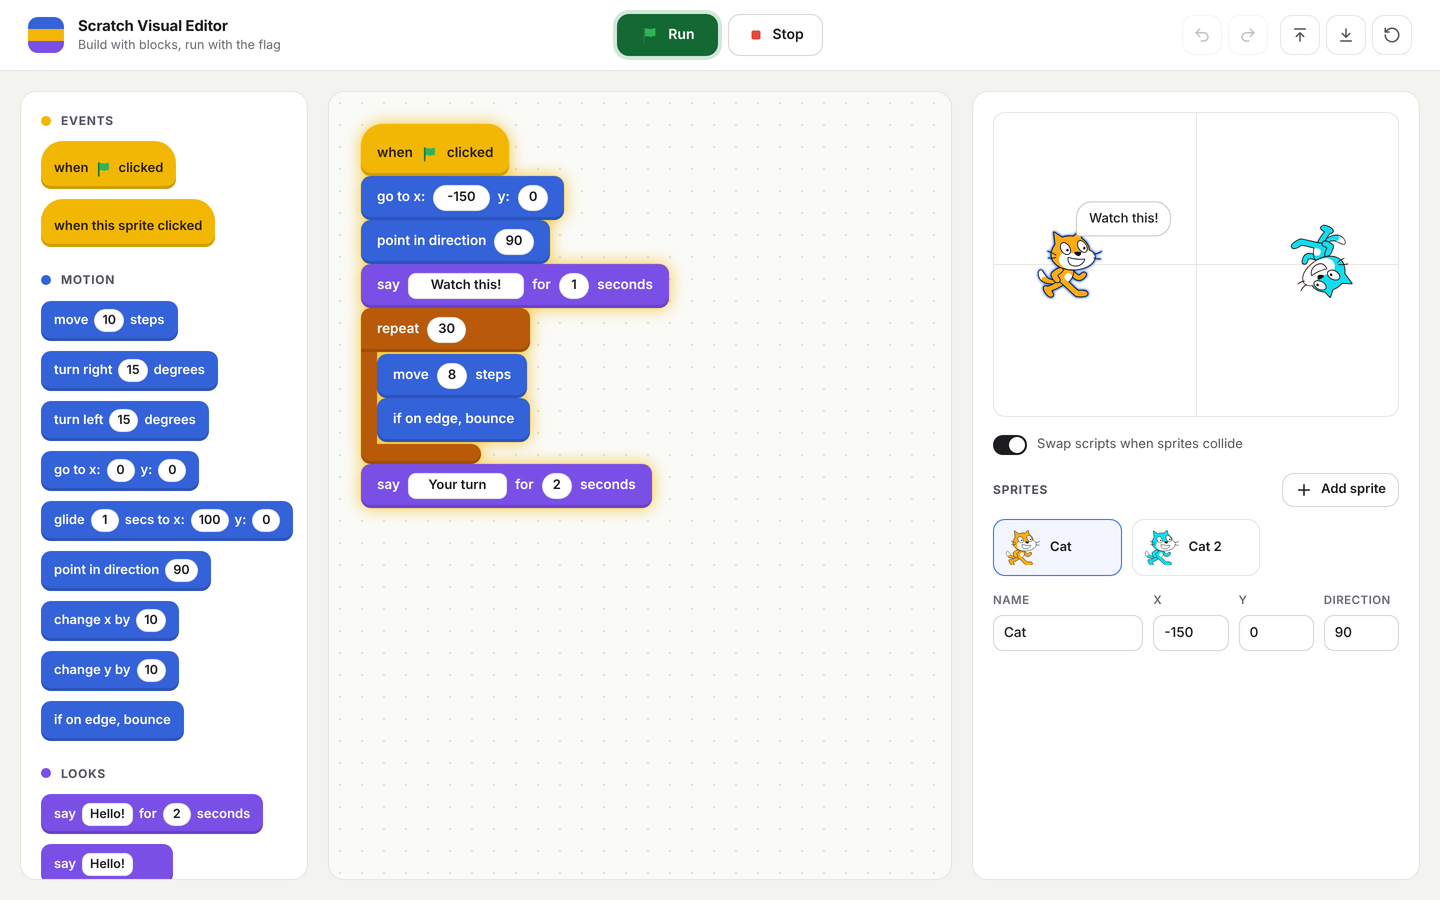
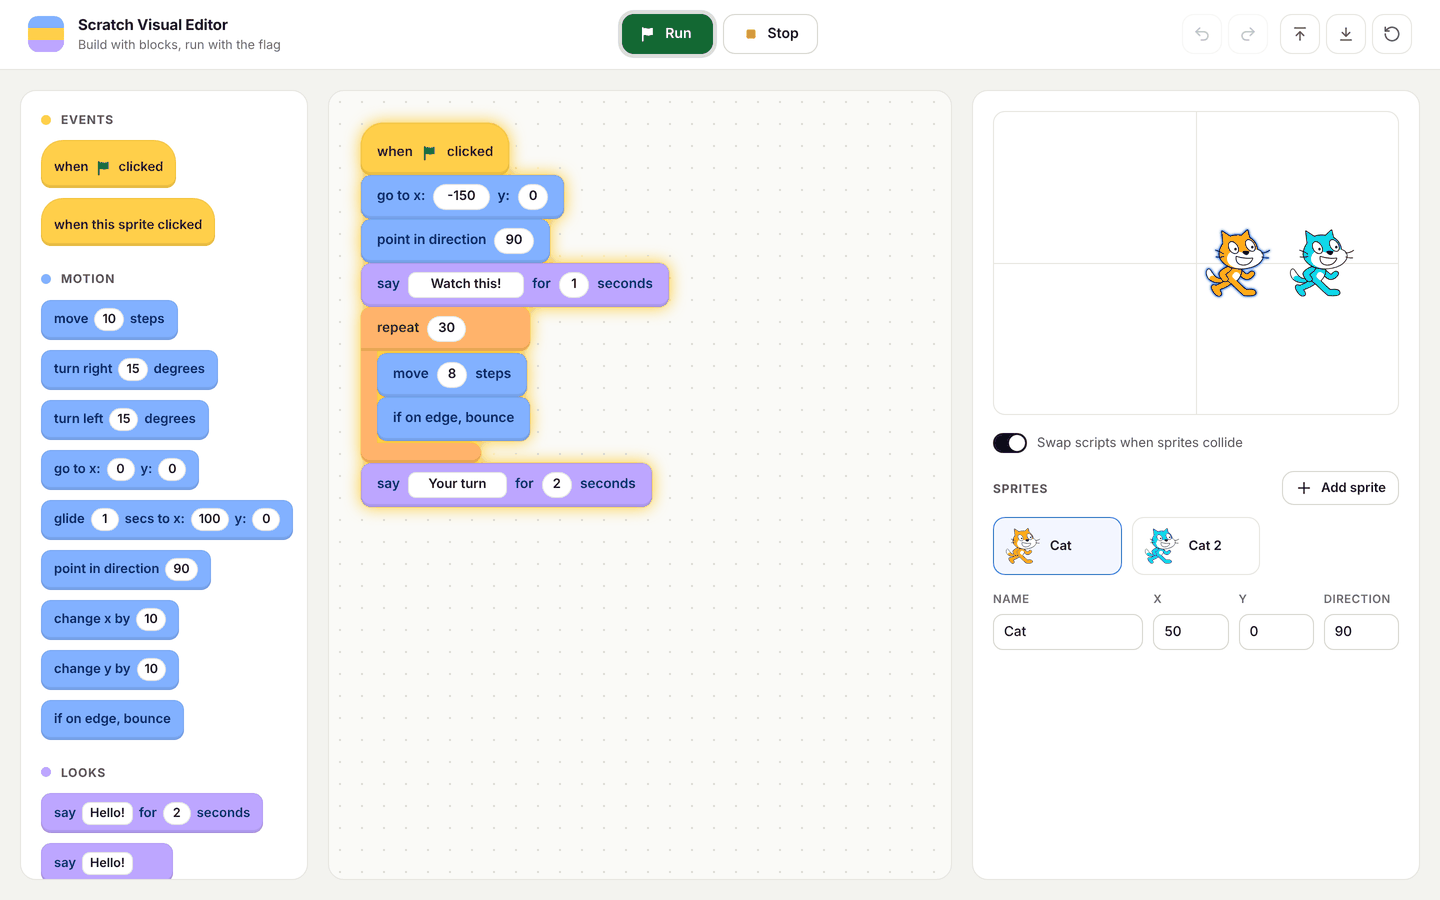
fixing colors

diff --git a/src/styles.css b/src/styles.css
@@ -36,7 +36,7 @@ body.is-dragging, body.is-dragging * { cursor: grabbing !important; user-select:
 .brand { display: flex; align-items: center; gap: 14px; }
 .brand-mark {
   width: 36px; height: 36px; border-radius: 10px; flex: none;
-  background: linear-gradient(180deg, #3462d8 0 33%, #f2b705 33% 66%, #7a4fe6 66%);
+  background: linear-gradient(180deg, #82b1ff 0 33%, #ffcf4a 33% 66%, #bda6ff 66%);
 }
 .brand h1 { margin: 0; font-size: 15px; font-weight: 700; letter-spacing: -0.01em; }
 .brand p { margin: 1px 0 0; font-size: 12.5px; color: var(--muted); }
@@ -92,21 +92,25 @@ body.is-dragging, body.is-dragging * { cursor: grabbing !important; user-select:
 /* ---------- blocks ---------- */
 .block {
   position: relative; width: max-content; min-width: 132px;
-  background: var(--block); color: #fff; border-radius: 10px;
-  box-shadow: inset 0 -3px 0 rgb(0 0 0 / .14);
+  background: var(--block); color: var(--block-ink, var(--ink)); border-radius: 10px;
+  box-shadow: inset 0 -3px 0 rgb(0 0 0 / .08), inset 0 0 0 1px rgb(0 0 0 / .05);
   cursor: grab; user-select: none; touch-action: none;
 }
 .block-row { display: flex; align-items: center; gap: 8px; min-height: 44px; padding: 6px 16px; font-size: 13.5px; font-weight: 600; white-space: nowrap; }
 .block-hat { border-radius: 22px 22px 10px 10px; }
 .block-hat .block-row { min-height: 52px; padding-top: 14px; }
 .block:focus-visible { outline: 3px solid var(--focus); outline-offset: 2px; z-index: 1; }
-.cat-events .block-row, .cat-events { color: #2d2100; }
-.cat-events .arg { color: var(--ink); }
+/* Light, saturated fills with dark text of the same hue: readable (AA) and friendlier than white-on-dark. */
+.cat-events { --block-ink: #3d2b00; }
+.cat-motion { --block-ink: #0d2a66; }
+.cat-looks { --block-ink: #2b1569; }
+.cat-control { --block-ink: #4a2300; }
+.block .arg { color: var(--ink); }
 /* C-blocks: only the head, the left arm and the foot are coloured; the mouth shows the canvas. */
 .block-c, .block-cap-c { background: none; box-shadow: none; }
-.block-c > .block-row, .block-cap-c > .block-row { background: var(--block); border-radius: 10px 10px 10px 0; box-shadow: inset 0 -3px 0 rgb(0 0 0 / .14); }
+.block-c > .block-row, .block-cap-c > .block-row { background: var(--block); border-radius: 10px 10px 10px 0; box-shadow: inset 0 -3px 0 rgb(0 0 0 / .08); }
 .c-mouth { border-left: 16px solid var(--block); padding: 2px 0; min-width: 120px; }
-.c-foot { width: 120px; height: 20px; background: var(--block); border-radius: 0 10px 10px 10px; box-shadow: inset 0 -3px 0 rgb(0 0 0 / .14); }
+.c-foot { width: 120px; height: 20px; background: var(--block); border-radius: 0 10px 10px 10px; box-shadow: inset 0 -3px 0 rgb(0 0 0 / .08); }
 .c-empty { height: 28px; }
 .stack { display: flex; flex-direction: column; align-items: flex-start; }
 .slot { position: relative; height: 0; align-self: stretch; }
@@ -132,7 +136,7 @@ body.is-dragging, body.is-dragging * { cursor: grabbing !important; user-select:
 }
 .canvas-content { position: relative; min-width: 1400px; min-height: 1100px; }
 .script { position: absolute; transition: filter .2s; }
-.script.is-running { filter: drop-shadow(0 0 0.5px #f2b705) drop-shadow(0 0 8px rgb(242 183 5 / .75)); }
+.script.is-running { filter: drop-shadow(0 0 0.5px #f0b400) drop-shadow(0 0 8px rgb(255 191 0 / .8)); }
 .canvas-empty {
   position: absolute; top: 120px; left: 50%; transform: translateX(-50%);
   max-width: 360px; text-align: center; color: var(--muted); line-height: 1.55;

diff --git a/src/model/blocks.ts b/src/model/blocks.ts
@@ -23,10 +23,10 @@ export interface BlockSpec {
 }
 
 export const CATEGORIES: { id: Category; label: string; color: string }[] = [
-  { id: 'events', label: 'Events', color: '#f2b705' },
-  { id: 'motion', label: 'Motion', color: '#3462d8' },
-  { id: 'looks', label: 'Looks', color: '#7a4fe6' },
-  { id: 'control', label: 'Control', color: '#b85a0a' },
+  { id: 'events', label: 'Events', color: '#ffcf4a' },
+  { id: 'motion', label: 'Motion', color: '#82b1ff' },
+  { id: 'looks', label: 'Looks', color: '#bda6ff' },
+  { id: 'control', label: 'Control', color: '#ffb36b' },
 ];
 
 const n = (name: string, value: number, label = name, min?: number, max?: number): ArgSpec =>

diff --git a/README.md b/README.md
@@ -4,6 +4,8 @@
 
 A Scratch-style visual programming editor in React and TypeScript. Drag blocks into scripts, press the green flag, and watch sprites move, glide, talk and bounce on the stage. Every edit can be undone, and the whole editor works with a keyboard and a screen reader.
 
+**Live demo:** https://scratchanimation.netlify.app
+
 ![The editor running a script: the active stack glows and the cat says "Watch this!"](docs/screenshot.png)
 
 ## What it does
